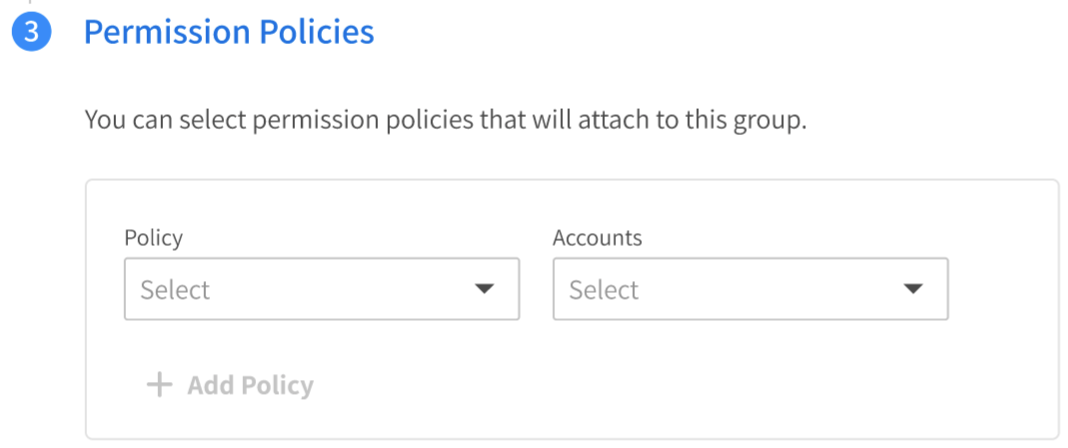
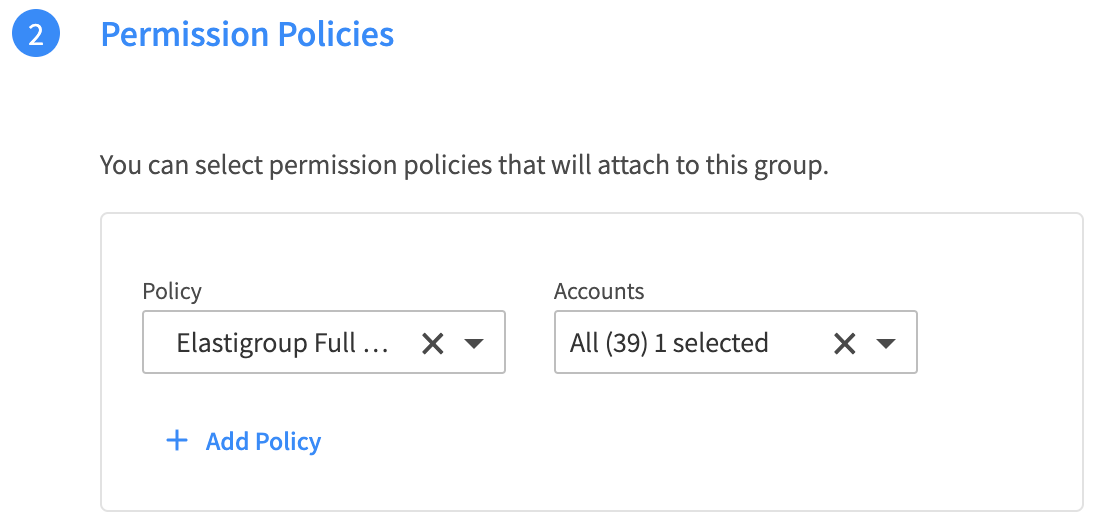
resizing

diff --git a/src/docs/administration/users-a/edit-user-details.md b/src/docs/administration/users-a/edit-user-details.md
@@ -41,7 +41,7 @@ To add or remove groups associated with the user, do the following:
 1. Above the table on the right, click Manage.
 2. In the Manage Groups popup, mark or unmark groups as needed, then click Update.
 
-<img src="/administration/_media/edit-user-details-04.png" />
+<img src="/administration/_media/edit-user-details-04.png" width="370" height="169" />
 
 ### Manage Policies
 
@@ -54,7 +54,7 @@ If you need to associate additional policies with the user, do the following:
 2. Select the name of the policy from the dropdown list. Note that the dropdown list doesn’t include the policies the user inherited from the groups. If you wish to remove an ‘inherited’ policy, you must un-assign the user from the group or remove the policy from the group itself.
 3. If the policy is at account level, you need to select at least one account to associate with this policy.
 
-<img src="/administration/_media/edit-user-details-06.png" />
+<img src="/administration/_media/edit-user-details-06.png" width="300" height="160" />
 
 In addition, you can review existing policies and detach any policy you no longer need.
 ### Manage API Tokens
@@ -77,7 +77,7 @@ To remove a user from Spot, do the following:
 1. In the upper right of the User Details page, click Remove User.
 2. In the popup that appears, confirm that you want to remove the user from Spot.
 
-<img src="/administration/_media/edit-user-details-07.png" />
+<img src="/administration/_media/edit-user-details-07.png" width="243" height="97" />
 
 ## What’s Next?
 

diff --git a/src/docs/administration/groups/create-new-group.md b/src/docs/administration/groups/create-new-group.md
@@ -5,7 +5,7 @@
 The Create New [Group](administration/groups/) wizard consists of the following major steps:
 1. Add Group Details
 2. Add Users
-3. Attach Policies
+3. Attach Permission Policies
 
 Each of these is described below.
 
@@ -42,7 +42,7 @@ There are several ways you can add [users]() to a group:
 
 You can add [policies]() to the group. The policies will determine what the group members will be allowed to do.
 
-<img src="/administration/_media/create-new-group-04.png" width="427" height="179" />
+<img src="/administration/_media/create-new-group-04.png" width="383" height="183" />
 
 1. Select the policy from the dropdown list.
 2. If the policy you are looking for is on the account level, you must select the relevant account(s) from the list of accounts, and then choose the policy.

diff --git a/src/docs/administration/users-a/create-new-user.md b/src/docs/administration/users-a/create-new-user.md
@@ -5,7 +5,7 @@
 Creating a new [user](administration/users-a/) consists of the following major steps:
 1. Define user details
 2. Choose Groups
-3. Choose Policies
+3. Choose Permission Policies
 
 Each of these is described below.
 
